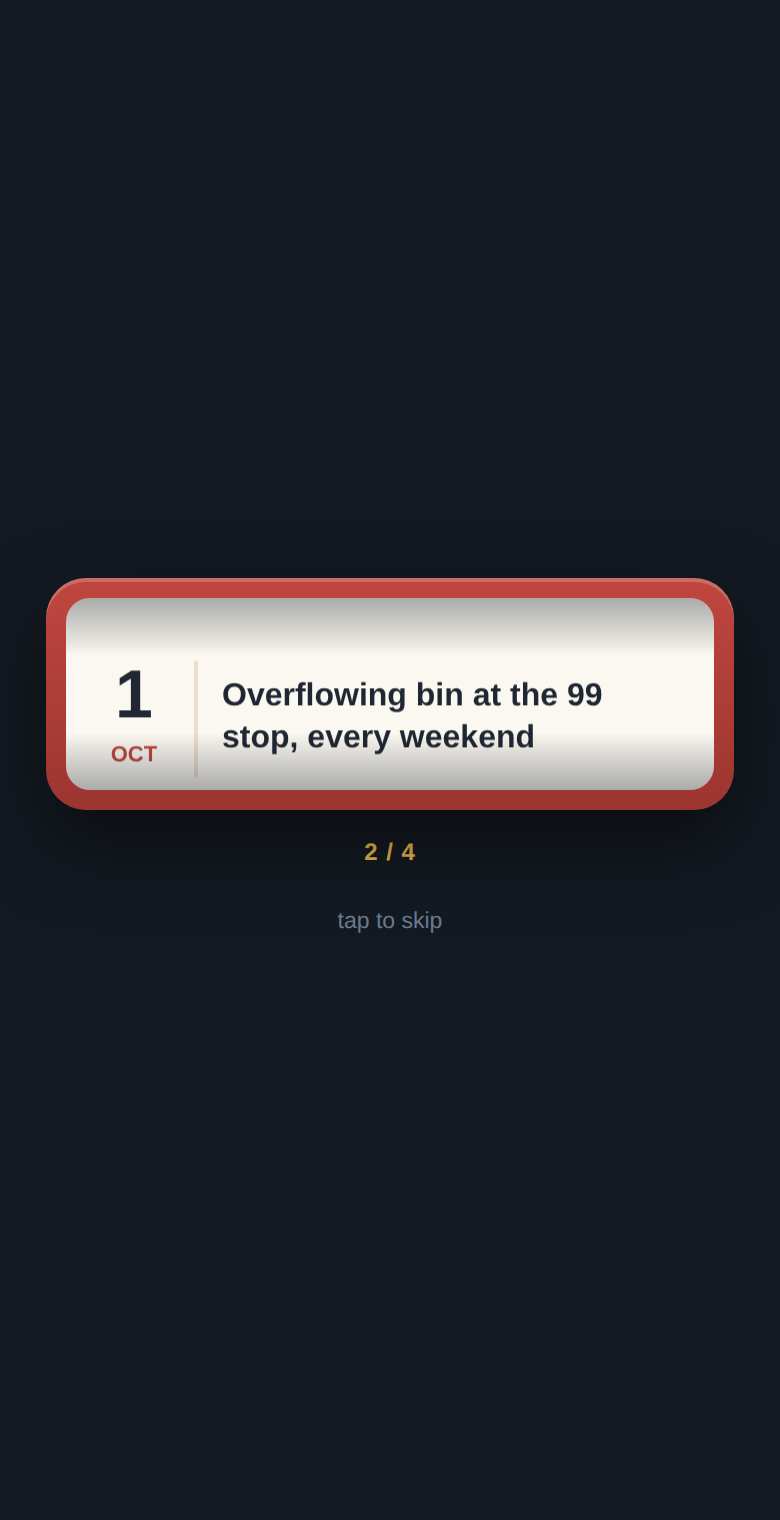
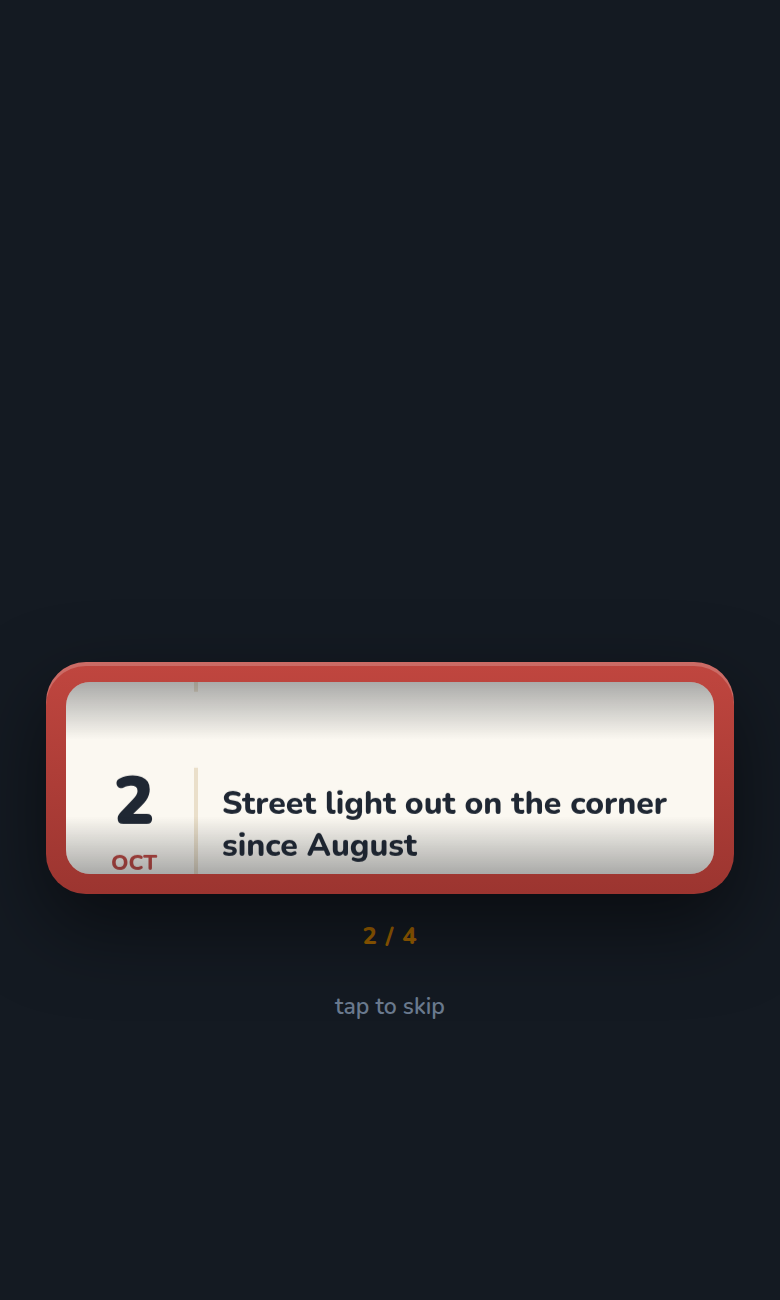
Demo: new first screen, Memory Lane screenshots [20261002205653]

Changed region(s): [[0.0615, 0.3692, 0.9538, 0.7385], [0.4308, 0.7692, 0.5846, 0.8]]

diff --git a/demo.html b/demo.html
@@ -24,11 +24,11 @@ p{font-size:clamp(15px,2.4vh,21px);line-height:1.35;color:var(--sub);margin:0 0 
 @media (orientation:landscape){.slide{flex-direction:row;gap:32px;text-align:left;padding-bottom:60px} .slide>div.txt{align-items:flex-start;display:flex;flex-direction:column;max-width:46vw} .phone{height:min(78vh,600px)}}
 </style></head><body>
 <div class="brand">VoterPup 🐾</div>
-<section class="slide on"><div class="txt"><div class="kick">FREE APP · NO ACCOUNT · NO PARTIES</div><h1>Feed your pup a photo.</h1><p>Point at anything on your street. It names what&rsquo;s good, what&rsquo;s broken, and roasts it.</p></div><div class="row"><div class="super"><img src="/demo/pup-super.png" alt=""></div><div class="phone"><img src="/demo/app-feed.png" alt=""></div></div></section>
-<section class="slide"><div class="txt"><h1>&ldquo;Perfectly smooth. Suspicious of perfection.&rdquo;</h1><p>Every photo gets a joke from your pup. Then it remembers what should be fixed.</p></div><div class="phone"><img src="/demo/app-feed.png" alt=""></div></section>
-<section class="slide"><div class="txt"><div class="kick">EVERY DAY</div><h1>Today&rsquo;s challenge: <em>find 5 things.</em></h1><p>A crosswalk, a mailbox, a pothole&hellip; each find is worth more. Fill the ring around your pup.</p></div><div class="phone"><img src="/demo/app-challenge.png" alt=""></div></section>
+<section class="slide on"><div class="txt"><div class="kick">FREE APP · NO ACCOUNT · NO PARTIES</div><h1>What bugs you most?</h1><p>One tap. That&rsquo;s your first thing, and your pup is yours.</p></div><div class="row"><div class="super"><img src="/demo/pup-super.png" alt=""></div><div class="phone"><img src="/demo/app-ask.png" alt=""></div></div></section>
+<section class="slide"><div class="txt"><h1>Feed your pup a photo.</h1><p>&ldquo;Perfectly smooth. Suspicious of perfection.&rdquo; Every photo gets a joke, and the pup remembers what should be fixed.</p></div><div class="phone"><img src="/demo/app-feed.png" alt=""></div></section>
+<section class="slide"><div class="txt"><div class="kick">EVERY DAY</div><h1>Today&rsquo;s sniff challenge: <em>find 5 things.</em></h1><p>Each find is worth more. Fill the ring around your pup.</p></div><div class="phone"><img src="/demo/app-challenge.png" alt=""></div></section>
 <section class="slide"><div class="txt"><h1>What Vancouver wants fixed, <em>ranked by agreement.</em></h1><p>Anonymous. No ads, no algorithm. Tap &ldquo;same here&rdquo; on what you agree with.</p></div><div class="phone"><img src="/demo/app-city.png" alt=""></div></section>
-<section class="slide dark"><div class="txt"><div class="kick">MEMORY LANE</div><h1>The morning you vote, your pup <em>walks you back.</em></h1><p>Everything you noticed, right before the ballot.</p></div><div class="phone"><img src="/demo/app-flash-reel.png" alt=""></div></section>
+<section class="slide dark"><div class="txt"><div class="kick">MEMORY LANE</div><h1>The morning you vote, your pup <em>walks you down Memory Lane.</em></h1><p>Everything you noticed, right before the ballot.</p></div><div class="phone"><img src="/demo/app-flash.png" alt=""></div></section>
 <section class="slide"><div class="txt"><h1>Scan to get <em>your</em> pup.</h1><p>Free · no account · 30 seconds</p></div><div class="qr"><img src="/demo/qr.png" alt="QR code"></div></section>
 <div class="foot"><div class="dots" id="dots"></div><div class="try" id="try">👆 Tap anywhere to try it</div></div>
 <script>

diff --git a/404.html b/404.html
@@ -2968,7 +2968,7 @@ function screenPack(mode, topic0){
   }).catch(function(e){ document.getElementById('board').textContent = 'The pack is napping: ' + e.message; });
 }
 
-var APP_VERSION = "20261002205429";
+var APP_VERSION = "20261002205653";
 (function(){
   try {
     fetch('/version.json?t=' + Date.now(), { cache: 'no-store' }).then(function(r){ return r.json(); }).then(function(j){

diff --git a/app.html b/app.html
@@ -2968,7 +2968,7 @@ function screenPack(mode, topic0){
   }).catch(function(e){ document.getElementById('board').textContent = 'The pack is napping: ' + e.message; });
 }
 
-var APP_VERSION = "20261002205429";
+var APP_VERSION = "20261002205653";
 (function(){
   try {
     fetch('/version.json?t=' + Date.now(), { cache: 'no-store' }).then(function(r){ return r.json(); }).then(function(j){

diff --git a/index.html b/index.html
@@ -2968,7 +2968,7 @@ function screenPack(mode, topic0){
   }).catch(function(e){ document.getElementById('board').textContent = 'The pack is napping: ' + e.message; });
 }
 
-var APP_VERSION = "20261002205429";
+var APP_VERSION = "20261002205653";
 (function(){
   try {
     fetch('/version.json?t=' + Date.now(), { cache: 'no-store' }).then(function(r){ return r.json(); }).then(function(j){
